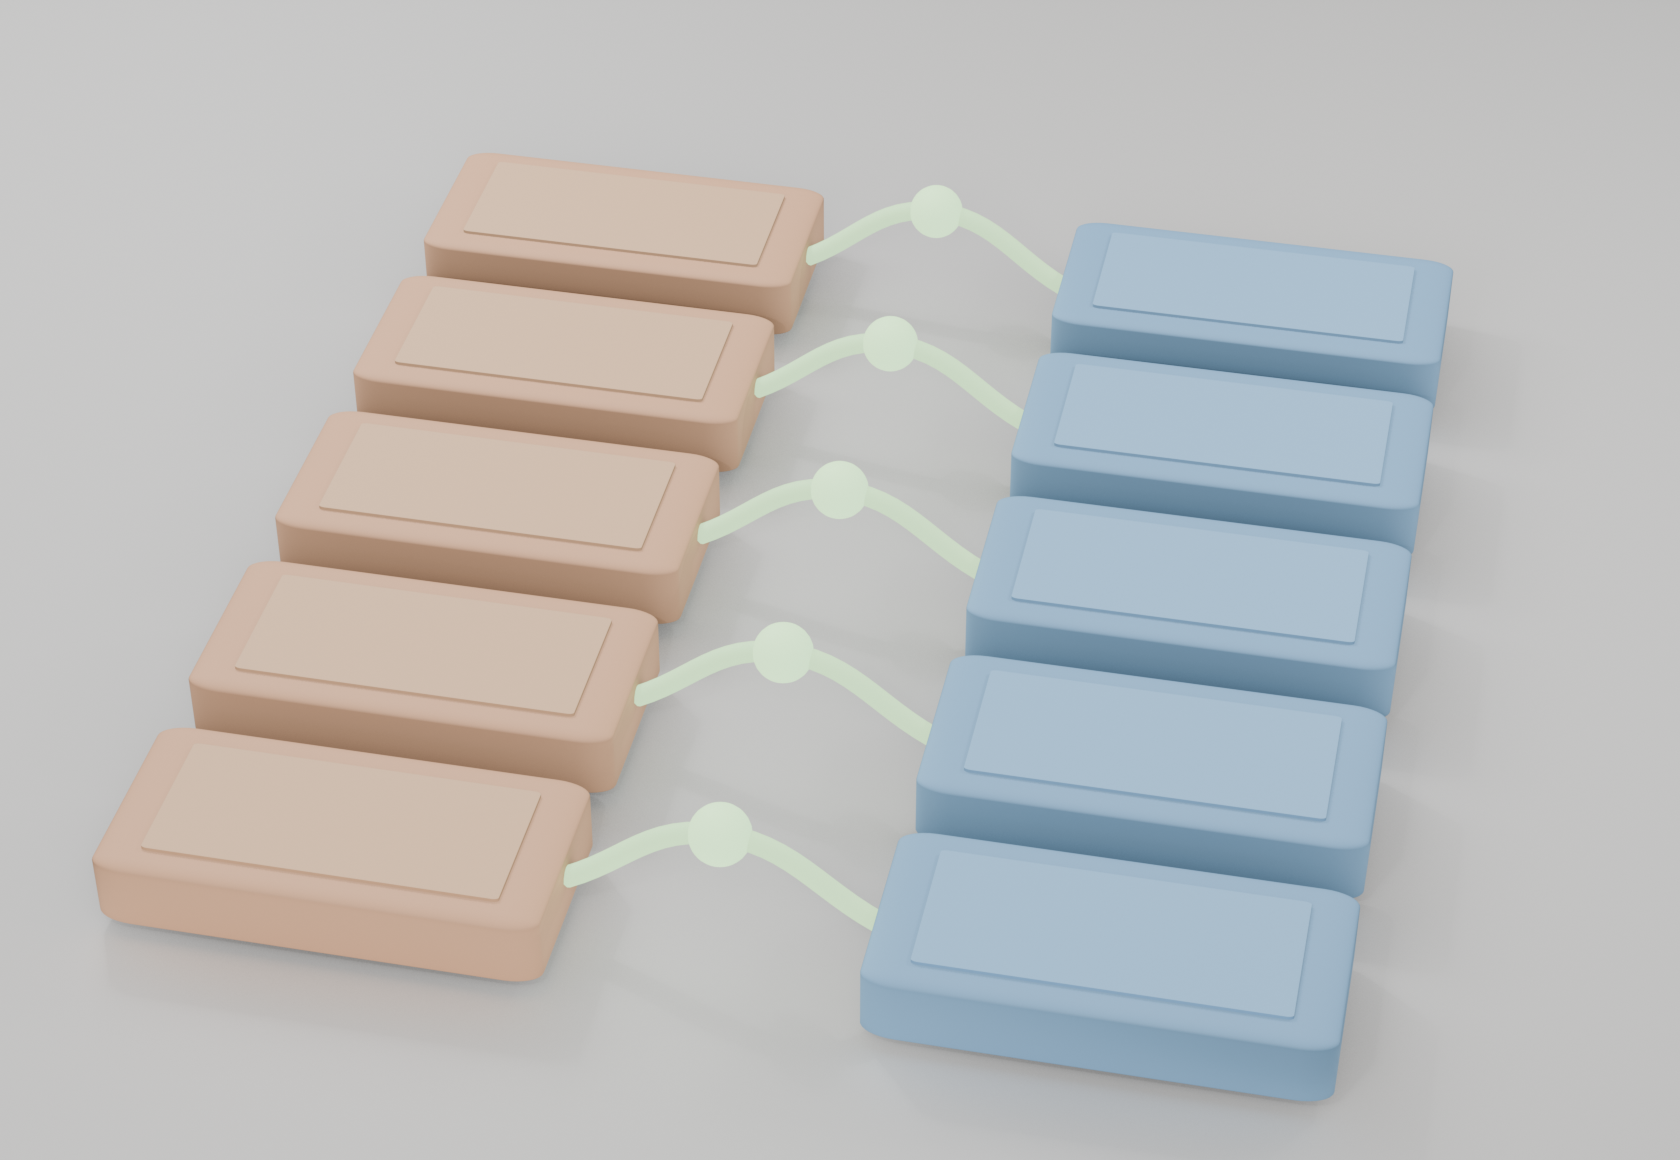
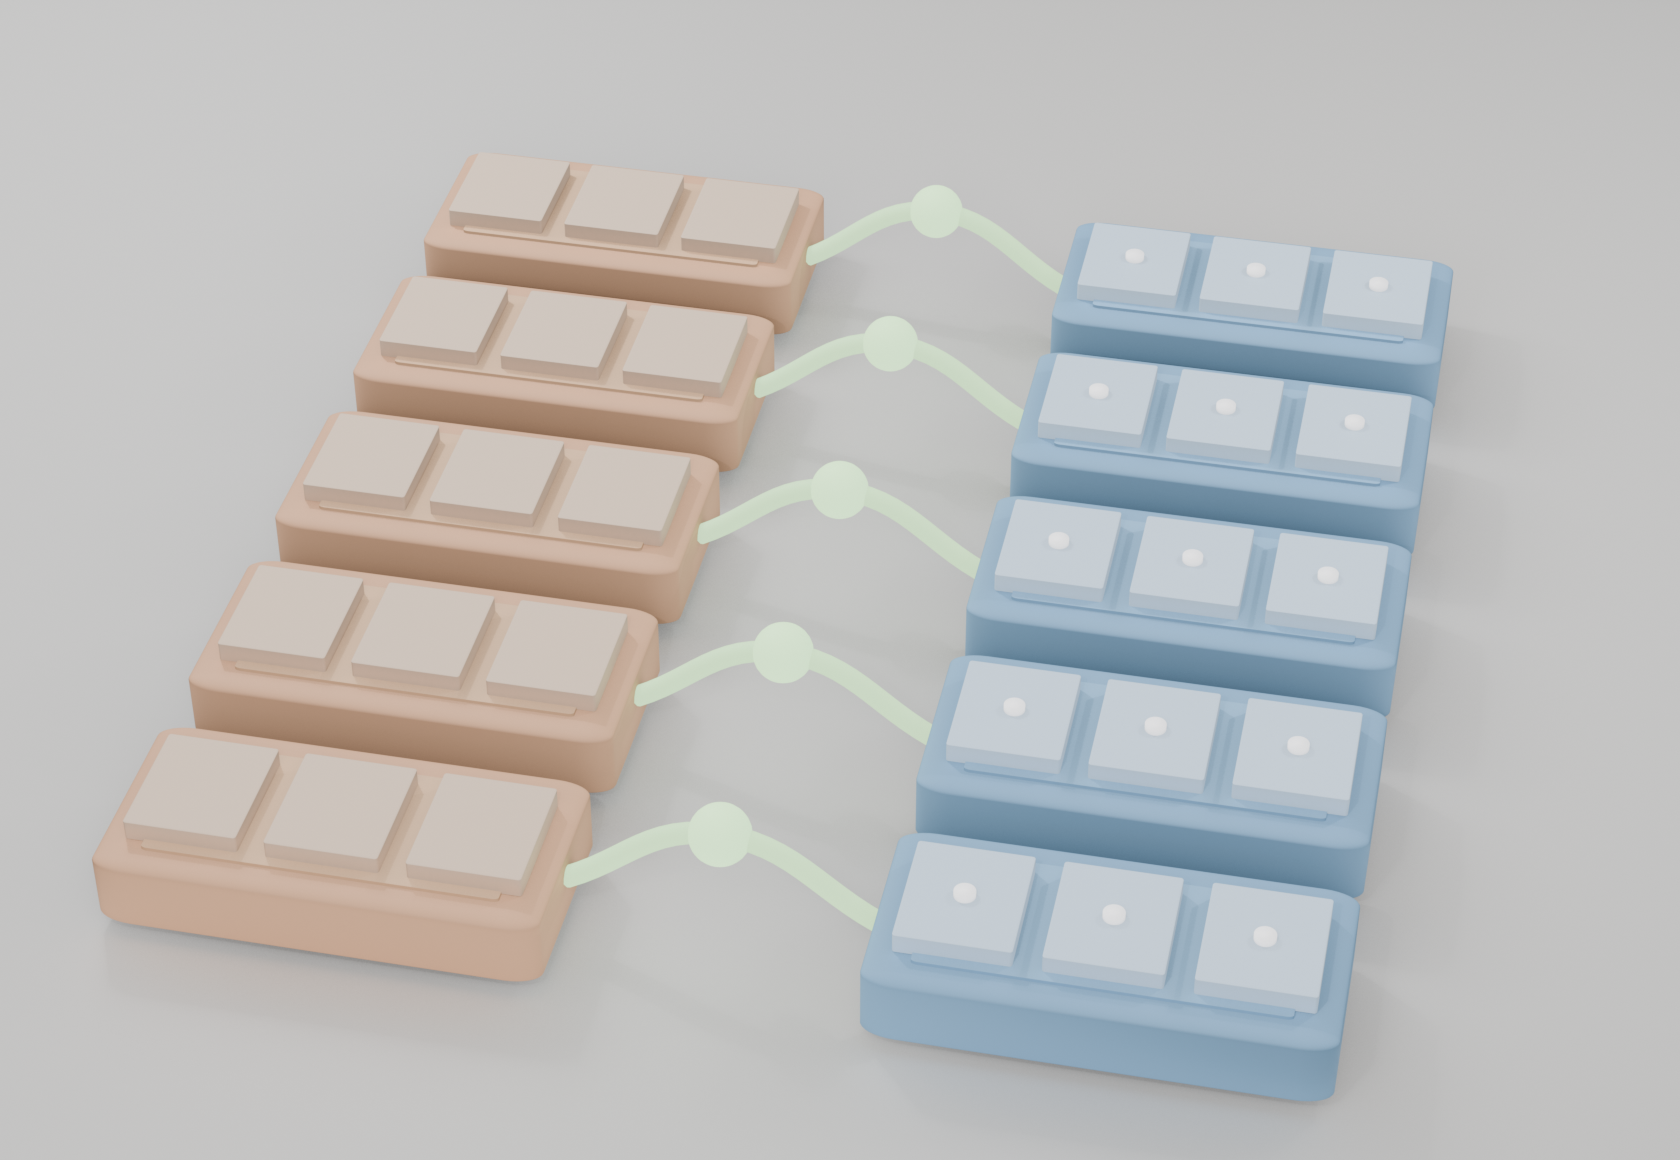
docs(architecture): add detail to the 3D trust + memory renders
Per user feedback ("good but add more details to the 3d diagrams"):
- Trust: recessed ledger grooves on each slab front, emissive green
  gate studs on the front-left of every step above raw, and a glowing
  ascent ribbon along the staircase's top-front edge.
- Memory: each candidate slab now carries three loose unsealed entry
  cards; each live slab carries three sealed entry cards with a small
  wax-seal stud — the candidate/live contract made visible in geometry.

Camera + anchors unchanged, so the HTML label overlays still register.

diff --git a/docs/diagrams/_build_trust.py b/docs/diagrams/_build_trust.py
@@ -71,6 +71,7 @@ W, D, H = 2.3, 1.3, 0.56
 STEP_Y, STEP_Z = 1.12, 0.80
 anchors = {}
 
+front_edge = []   # visible top-front edge of each slab, for the ascent ribbon
 for i, (label, col, emit) in enumerate(LEVELS):
     y, z = -i * STEP_Y, i * STEP_Z
     box(label, (0, y, z), (W, D, H), col, emit=emit)
@@ -78,7 +79,35 @@ for i, (label, col, emit) in enumerate(LEVELS):
     pc = tuple(min(1.0, c * 1.16 + 0.03) for c in col)
     box(label + "_panel", (0, y, z + H / 2 - 0.012),
         (W - 0.52, D - 0.42, 0.06), pc, emit=emit * 0.5, bevel=0.025)
+    # two thin recessed "ledger" grooves on the slab front for extra detail
+    for gy in (0.15, -0.15):
+        box(label + "_gr", (0.5, y - D / 2 + 0.004, z + gy),
+            (W - 1.7, 0.05, 0.05),
+            tuple(max(0.0, c * 0.66) for c in col), bevel=0.012)
+    # a small emissive gate stud at the front-left of each step above raw
+    if i > 0:
+        bpy.ops.mesh.primitive_cylinder_add(radius=0.13, depth=0.07,
+            location=(-0.82, y - D / 2 + 0.02, z))
+        st = bpy.context.active_object
+        st.rotation_euler = (math.radians(90), 0, 0)
+        st.data.materials.append(clay("stud%d" % i, (0.40, 0.66, 0.34), emit=4.5))
+        bpy.ops.object.shade_smooth()
     anchors[label] = mathutils.Vector((0.0, y - D / 2, z))
+    front_edge.append((0.78, y - D / 2 + 0.05, z + H / 2 + 0.03))
+
+# glowing ascent ribbon along the visible top-front edge of the staircase
+cu = bpy.data.curves.new("ascent", 'CURVE')
+cu.dimensions = '3D'
+cu.bevel_depth = 0.05
+cu.bevel_resolution = 4
+sp = cu.splines.new('BEZIER')
+sp.bezier_points.add(len(front_edge) - 1)
+for bp, co in zip(sp.bezier_points, front_edge):
+    bp.co = co
+    bp.handle_left_type = bp.handle_right_type = 'AUTO'
+rib = bpy.data.objects.new("ascent", cu)
+bpy.context.collection.objects.link(rib)
+rib.data.materials.append(clay("ascent_m", (0.98, 0.88, 0.50), emit=5.5))
 
 # ---------- ground (shadow catcher) ----------
 bpy.ops.mesh.primitive_plane_add(size=90, location=(0, 0, -0.66))

diff --git a/docs/diagrams/_build_memory.py b/docs/diagrams/_build_memory.py
@@ -73,6 +73,19 @@ CW, LW, D, H = 2.9, 2.9, 1.4, 0.5
 CX, LX = -2.45, 2.45
 anchors = {}
 
+def entries(cx, y, top_z, tint, n=3, sealed=False):
+    """small 'entry' cards sitting on a slab top — adds informative detail."""
+    for k in range(n):
+        ex = cx - (n - 1) * 0.46 + k * 0.92
+        box("e", (ex, y, top_z + 0.075), (0.74, 0.86, 0.14),
+            tint, emit=(0.6 if sealed else 0.0), bevel=0.025)
+        if sealed:
+            bpy.ops.mesh.primitive_cylinder_add(radius=0.07, depth=0.05,
+                location=(ex, y, top_z + 0.16))
+            c = bpy.context.active_object
+            c.data.materials.append(clay("seal", (0.95, 0.95, 0.98), emit=2.0))
+            bpy.ops.object.shade_smooth()
+
 for i, tier in enumerate(TIERS):
     y = -i * SY
     star = (tier == "procedural")
@@ -80,6 +93,10 @@ for i, tier in enumerate(TIERS):
     panel((CX, y, 0.34), (CW, D, H), ORANGE, emit=0.02)
     box("live_%d" % i, (LX, y, 0.34), (LW, D, H), BLUE, emit=0.05)
     panel((LX, y, 0.34), (LW, D, H), BLUE, emit=0.02)
+    # detail: loose unsealed entry cards on candidate, sealed ones on live
+    top = 0.34 + H / 2
+    entries(CX, y, top, (1.0, 0.78, 0.62), n=3, sealed=False)
+    entries(LX, y, top, (0.62, 0.78, 0.96), n=3, sealed=True)
     # promote connector — a short glowing tube
     cu = bpy.data.curves.new("t", 'CURVE'); cu.dimensions = '3D'
     cu.bevel_depth = 0.07; cu.bevel_resolution = 4